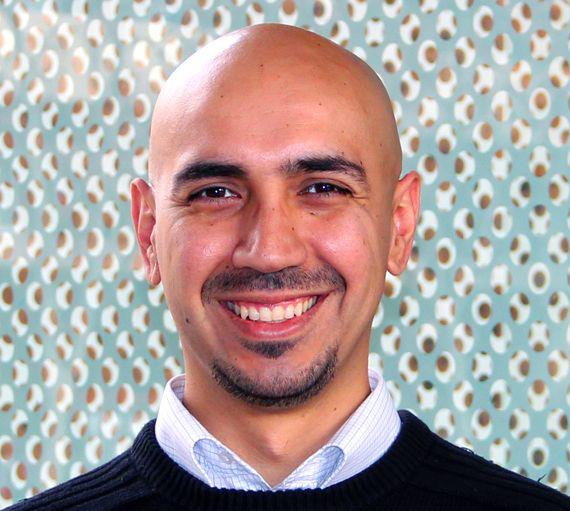
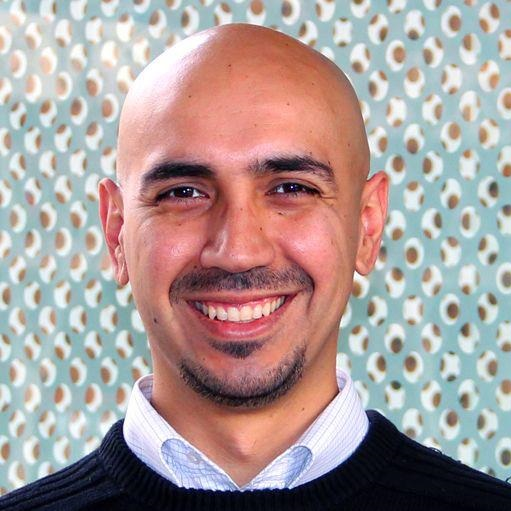
Second update. Final candidate.

diff --git a/index.html b/index.html
@@ -34,54 +34,113 @@
     <div class="container">
         <div class="row">
             <div class="col-xs-12">
-                <h1>Predicting Side Effects from Online Media</h1>
+                <h1>Can we discover new drugs side effects from Social Media?</h1>
             </div>
         </div>
 
         <div class="row">
             <div class="col-xs-12">
                 <div class="embed-responsive embed-responsive-16by9">
-                  <iframe class="embed-responsive-item" src="https://www.youtube.com/embed/r24HIRHTgVo"></iframe>
+                  <iframe class="embed-responsive-item" src="https://www.youtube.com/embed/GiQ1SQWtLfo"></iframe>
                 </div>
             </div>
         </div>  
         <div class="row">
             <div class="col-xs-12">
-                <h2 class="page-header">Motivation</h2>
+                <h2 class="page-header">Our Motivation</h2>
                 <p>Every year, commonly available medication is withdrawn from the market due to safety concerns.
-From the market withdrawal of Thalidomide (a sedative causing foetal malformation) in the early 60s, to the withdrawal of Vioxx (a painkiller causing heart-attacks and strokes, marketed for 5 years) in the mid 00s, the need for withdrawal of marketed medication constitutes an important health hazard.</p>
-<p>In order to gain marketing authorization for clinically approved medical products, pharmaceutical companies should demonstrate the capability to gather post-marketing reports of side effects through local country offices and telephone hotlines.  With the widespread use of social media, the tendency to report side effects to the general public has risen tremendously.</p>
+                From the market withdrawal of Thalidomide (a sedative causing foetal malformation) in the early 60s, to the withdrawal of Vioxx (a painkiller causing heart-attacks and strokes, marketed for 5 years) in the mid 00s, the need for withdrawal of marketed medication constitutes an important health hazard.</p>
+                <p>In order to gain marketing authorization for clinically approved medical products, pharmaceutical companies should demonstrate the capability to gather post-marketing reports of side effects through local country offices and telephone hotlines. With the widespread use of social media, the tendency to report side effects to the general public has risen tremendously.</p>
+                <p>So we started to wonder: what if we have tons of social media posts and data, and we run some data analysis ... could we get some new side effects that the pharmaceuticals aren't aware of ?</p>
             </div>
         </div>
 
         <div class="row">
             <div class="col-xs-12">
-                <h2 class="page-header">Data and Analysis</h2>
-                <p>Our analysis will include the following data sources:</p>
-                <dl>
-                    <dt>1. Pharmaceuticals</dt>
-                    <dd>
-                        <ul>
-                            <li>20 pharmaceuticals from the withdrawals list at the US FDA Drug Authority <a href="http://www.fda.gov/Drugs/DrugSafety/DrugRecalls/default.htm">http://www.fda.gov/Drugs/DrugSafety/DrugRecalls/default.htm</a> . In particular, we’ll be looking at drug name, drug name synonyms to create our Boolean queries and withdrawal date for our timeframes.</li>
-                            <li>20 drugs as a control set which are similar to those drugs, but have not been withdrawn.</li>
-                        </ul>
-                    </dd>
-                    <dt>2. Known lists of side effects for our “truth” set</dt>
-                    <dd class="m10bottom"> <a href="http://www.drugs.com/sfx/">http://www.drugs.com/sfx/</a> SPEC: Drug name and side effect will be used to build the truth set.</dd>
-                    <dt>3. Media data</dt>
-                    <dd>We’ll be searching an archive of millions of postings per day for the Boolean queries outlined in #2.  In the archive, we have a collection of 500,000 forums, blogs, local and national news and consumer reviews and social media.</dd>
-                </dl>
-                <div class="alert alert-info" role="alert">
+                <h2 class="page-header">Diving into Data</h2>
+                <p>We had some awesome data to use:</p>
+                <ol>
+                    <li>Postings from Online Media about our chosen pharmaceuticals</li>
+                    <li>Pharmaceuticals with past investigations</li>
+                    <li>And a list of known adverse effects</li>
+                </ol>
+                <br />
+                <p>And our data came from all over the world ...</p>
+                <img src="images/worldmap_posts.png" alt="" />
+                <br />
+                <p>So the question was: which drugs should we investigate?. Well, we took the top 300 drugs named on postings having the words "adverse effects" or "side effects" in their post. After having a look at them we came up with our very own top 22:</p>
+                <ul>
+                    <li>MYRBETRIQ</li>
+                    <li>PROPRANOLOL</li>
+                    <li>EFFEXOR</li>
+                    <li>ZOCOR</li>
+                    <li>BENICAR</li>
+                    <li>LEVAQUIN</li>
+                    <li><strong>XARELTO</strong></li>
+                    <li>MIRENA</li>
+                    <li>OLANZAPINE</li>
+                    <li>HARVONI</li>
+                    <li>TRAZODONE</li>
+                    <li>WELLBUTRIN</li>
+                    <li>INVOKANA</li>
+                    <li>RISPERIDONE</li>
+                    <li>CELEXA</li>
+                    <li>LEXAPRO</li>
+                    <li>FINASTERIDE</li>
+                    <li>ELIQUIS</li>
+                    <li>FLUOXETINE</li>
+                    <li>PREDNISONE</li>
+                    <li><strong>RISPERDAL</strong></li>
+                    <li>NAPROXEN</li>
+                </ul>
+                <p>As you can see, it's a short list, and in it we have hightlighted 2 drugs. Bear them in mind for a little while, we will shortly talk about them.</p>
+
+<!--                 <div class="alert alert-info" role="alert">
                   <span class="glyphicon glyphicon-exclamation-sign" aria-hidden="true"></span>
                   Our whole data set can be downloaded from this <a href="#">link</a>
-                </div>
+                </div> -->
             </div>
         </div>
         <div class="row">
             <div class="col-xs-12">
-                <h2 class="page-header">What we discovered</h2>
-                <p>Lorem ipsum dolor sit amet, consectetur adipiscing elit, sed do eiusmod tempor incididunt ut labore et dolore magna aliqua. Ut enim ad minim veniam, quis nostrud exercitation ullamco laboris nisi ut aliquip ex ea commodo consequat. Duis aute irure dolor in reprehenderit in voluptate velit esse cillum dolore eu fugiat nulla pariatur. Excepteur sint occaecat cupidatat non proident, sunt in culpa qui officia deserunt mollit anim id est laborum</p>
-                <div class='tableauPlaceholder' style='width: 982px; height: 742px;'>
+                <h2 class="page-header">Data Analysis: making sense of all the data we got!</h2>
+                <p>We used 2 techniques for our analysis: </p>
+                <ol>
+                    <li>Word Categorization (LDA)</li>
+                    <li>Comparing listed effects vs reported effects</li>
+                </ol>
+                <br />
+                <p><strong>Word Categorization (LDA)</strong></p>
+                 <p>In our first approach, we tried to see if we could dig into social media data and find what were the most common side effects for a group of specifics drugs. </p><p>Sadly, this approach didn´t work so well, so we did a little literature review about it and we found that there were 3 major articles published about side effects, and they used different techniques:</p>
+                 <ul>
+                    <li>Lexicon-method</li>
+                    <li>machine learning</li>
+                    <li>association rule mining</li>
+                </ul>
+                <p>So as you can see, neither of them used LDA for this kind of investigation, and we believe that detection of side effects from social media is a young branch of data science, and sometimes when you try something new you won't get the best answer right away.</p>
+                <br />
+                <p><strong>Comparing listed effects vs reported effects</strong></p>
+                <p>Now, after doing Word Categorization, we started to compare our listed side effects from FDA and other pharmaceutical associations and what we found in social media posts</p>
+                <p>We didn't have the time to do ech of the 22 drugs listed before, so we picked 2:</p>
+                <ul>
+                    <li>Xarelto</li>
+                    <li>Risperdal</li>
+                </ul>
+
+                <p><strong>Xarelto</strong></p>
+                <p>Xarelto (rivaroxaban) is an anticoagulant (blood thinner) that prevents the formation of blood clots. Xarelto is used to prevent or treat a type of blood clot called deep vein thrombosis (DVT), which can lead to blood clots in the lungs (pulmonary embolism). A DVT can occur after certain types of surgery.</p>
+                <img src="images/xarelto.jpg" alt="" width="300"/>
+
+                <p><strong>Risperdal</strong></p>
+                <p>Risperdal is used to treat schizophrenia and symptoms of bipolar disorder (manic depression). Risperdal is also used in autistic children to treat symptoms of irritability.
+                Risperdal has been in the news quite a bit because of some fraudulent activity and fines received by Jansen in what and how Risperdal was prescribed by US doctors.</p>
+                <img src="images/risperdal.png" alt="" width="300"/>
+
+                <p>With these two drugs, we proceed to analize all their social media effects and cross it with all known side effects. Then we ran a validation test to see if our findings were significant, from a statistical point of view.</p>
+                <p>So lets move to our results ...</p>
+
+<!--                 <div class='tableau
+                <p><strong>Xarelto</strong></p>Placeholder' style='width: 982px; height: 742px;'>
                     <noscript><a href='#'>
                         <img alt='Dashboard 1 ' src='https:&#47;&#47;public.tableau.com&#47;static&#47;images&#47;se&#47;seattle_4&#47;Dashboard1&#47;1_rss.png' style='border: none' /></a>
                     </noscript>
@@ -101,20 +160,28 @@ From the market withdrawal of Thalidomide (a sedative causing foetal malformatio
                         <param name='showTabs' value='y' />
                         <param name='bootstrapWhenNotified' value='true' />
                     </object>
-                </div>
+                </div> -->
             </div>
         </div>
 
         <div class="row">
             <div class="col-xs-12">
-                <h2 class="page-header">Conclusion</h2>
-                <p>Lorem ipsum dolor sit amet, consectetur adipiscing elit, sed do eiusmod tempor incididunt ut labore et dolore magna aliqua. Ut enim ad minim veniam, quis nostrud exercitation ullamco laboris nisi ut aliquip ex ea commodo consequat. Duis aute irure dolor in reprehenderit in voluptate velit esse cillum dolore eu fugiat nulla pariatur. Excepteur sint occaecat cupidatat non proident, sunt in culpa qui officia deserunt mollit anim id est laborum</p>
+                <h2 class="page-header">Results</h2>
+                <p>We found new unknown side effects for these 2 drugs:</p>
+                <p><strong>Risperdal</strong></p>
                 <ol>
-                    <li>Conclusion #1</li>
-                    <li>Conclusion #2</li>
-                    <li>Conclusion #3</li>
-                    <li>Conclusion #4</li>
+                    <li>Arthritis</li>
+                    <li>Hair loss</li>
+                    <li>Obesity</li>
                 </ol>
+                <br>
+                <p><strong>Xarelto</strong></p>
+                <ol>
+                    <li>Liver</li>
+                    <li>Hair loss</li>
+                </ol>
+                <br>
+                <p>Even though this is a small finding, it shows how powerfull can be social media. The pharmaceutical can get more unknown side effects investigating people posts and discussions in forums, or at least get a hint on what symptoms are people talking about when they use their products.</p>
             </div>
         </div>
 

diff --git a/team.html b/team.html
@@ -40,13 +40,13 @@
         <div class="row">
           <div class="col-xs-4">
             <div class="thumbnail">
-              <img src="images/person.jpg" class="photo">
+              <img src="images/per.png" class="photo">
               <div class="caption">
                 <h3>Per Jenson</h3>
-                <p>"Sed ut perspiciatis unde omnis iste natus error sit voluptatem accusantium doloremque laudantium, totam rem aperiam, eaque ipsa quae ab illo inventore veritatis et quasi architecto beatae vitae dicta sunt explicabo. Nemo enim ipsam voluptatem quia voluptas sit aspernatur aut odit aut fugit, sed quia consequuntur magni dolores eos qui ratione voluptatem sequi nesciunt. Neque porro quisquam est, qui dolorem ipsum quia dolor sit amet, consectetur, adipisci velit, sed quia non numquam eius modi tempora incidunt ut labore et dolore magnam aliquam quaerat voluptatem.</p>
+                <p>Per has 18 years of experience from Data Warehousing and Business Intelligence functions, having worked in both the financial and the pharmaceutical domains. He currently works as an IT-architect in a global pharmaceutical.</p>
                 <address>
                   <strong>Email</strong><br>
-                  <a href="mailto:#">first.last@example.com</a>
+                  <a href="mailto:pkj@gmx.de">Email Him</a>
                 </address>
               </div>
             </div>
@@ -56,7 +56,7 @@
               <img src="images/gilles.jpg" class="photo">
               <div class="caption">
                 <h3>Gilles Comeau</h3>
-                <p>Gilles is a senior IT professional with 13 years of engineering and project management experience focused on the delivery of reliable online services at massive scale and complexity. Gilles has a proven track record of solving business problems using emerging technology solutions and evaluating the impact of new technologies on business strategy and direction. Before becoming CTO of Polecat, Gilles managed the implementation of Azure for MSN in Microsoft, and prior to that managed the integration of several acquisitions into the Online Services Division at MS. Gilles holds an MBA from a top 25 FT ranked university: Grenoble Graduate School of Business, a Bachelor of Computer Science from UNB, and many industry recognized certifications including PMP, ITIL Master, MCPD, OCP 8/9, ISO 20000 and 27001. He is also a visiting professor at his alma mater GGSB, and also University of Wales, teaching Information Systems and Programming for Finance Majors. Outside of work, Gilles fly fishes well and golfs poorly.</p>
+                <p>Gilles is a senior IT professional with 13 years of engineering and project management experience focused on the delivery of reliable online services at massive scale and complexity. Gilles has a proven track record of solving business problems using emerging technology solutions and evaluating the impact of new technologies on business strategy and direction. Gilles holds an MBA from a top 25 FT ranked university: Grenoble Graduate School of Business, a Bachelor of Computer Science from UNB, and many industry recognized certifications including PMP, ITIL Master, MCPD, OCP 8/9, ISO 20000 and 27001. He is also a visiting professor at his alma mater GGSB, and also University of Wales, teaching Information Systems and Programming for Finance Majors. </p>
                 <address>
                   <strong>Email</strong><br>
                   <a href="mailto:comeaugilles@hotmail.com">Email Him</a>
@@ -69,7 +69,7 @@
               <img src="images/mario.jpg" class="photo">
               <div class="caption">
                 <h3>Mario Salgado</h3>
-                <p>"Sed ut perspiciatis unde omnis iste natus error sit voluptatem accusantium doloremque laudantium, totam rem aperiam, eaque ipsa quae ab illo inventore veritatis et quasi architecto beatae vitae dicta sunt explicabo. Nemo enim ipsam voluptatem quia voluptas sit aspernatur aut odit aut fugit, sed quia consequuntur magni dolores eos qui ratione voluptatem sequi nesciunt. Neque porro quisquam est, qui dolorem ipsum quia dolor sit amet, consectetur, adipisci velit, sed quia non numquam eius modi tempora incidunt ut labore et dolore magnam aliquam quaerat voluptatem.</p>
+                <p>Mario is a Senior IT Project Manager, with over 10 years of experience in Telcos and Banking industries. He specializes in Business Process Redesign and New Products Development. Mario is an Industrial Engineer with a Master of Business degree, and holds some important certifications such as PMP, ITIL and Scrum.</p>
                 <address>
                   <strong>Email</strong><br>
                   <a href="mailto:mariosalgado@gmail.com">Email Him</a>
